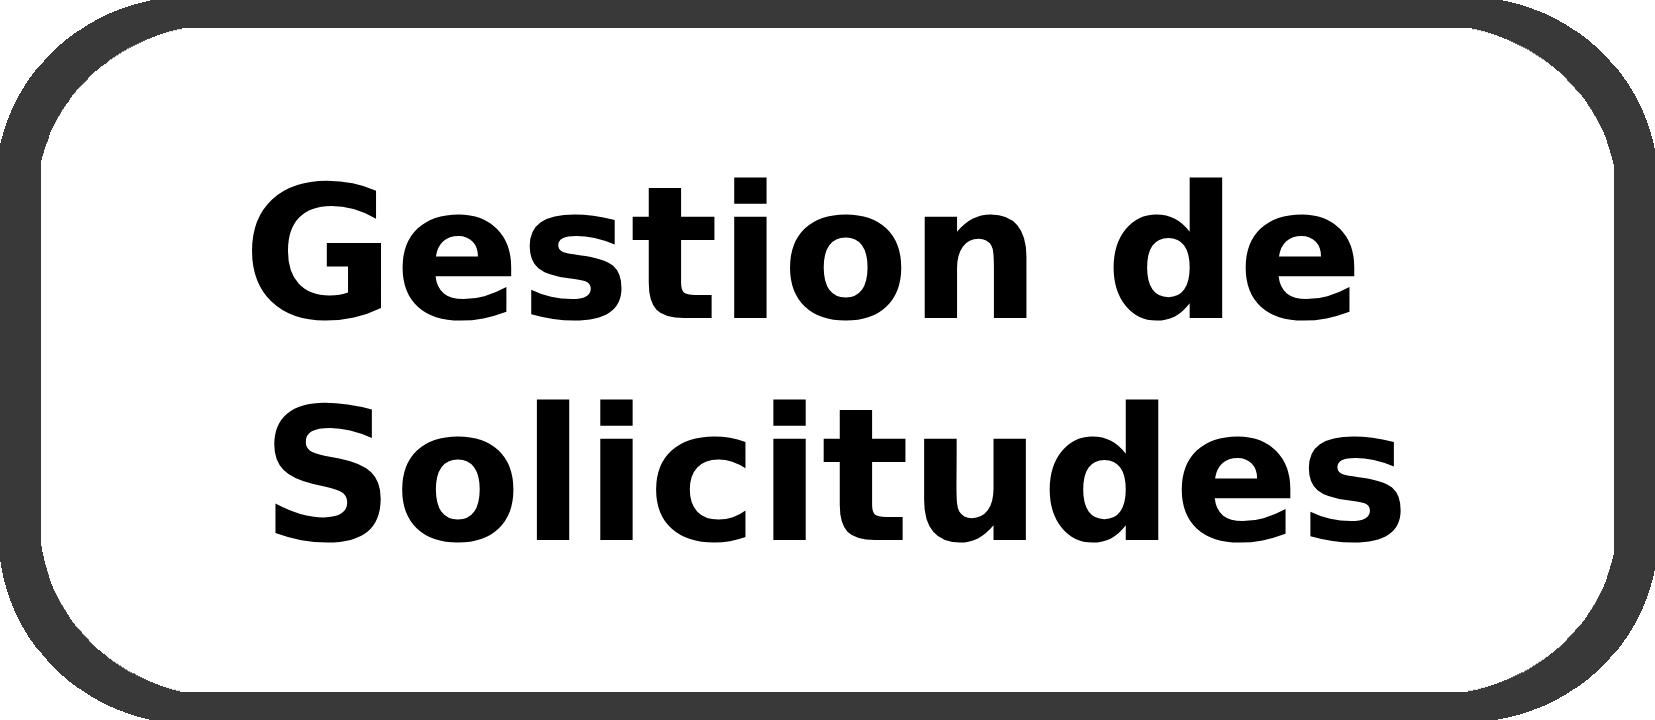
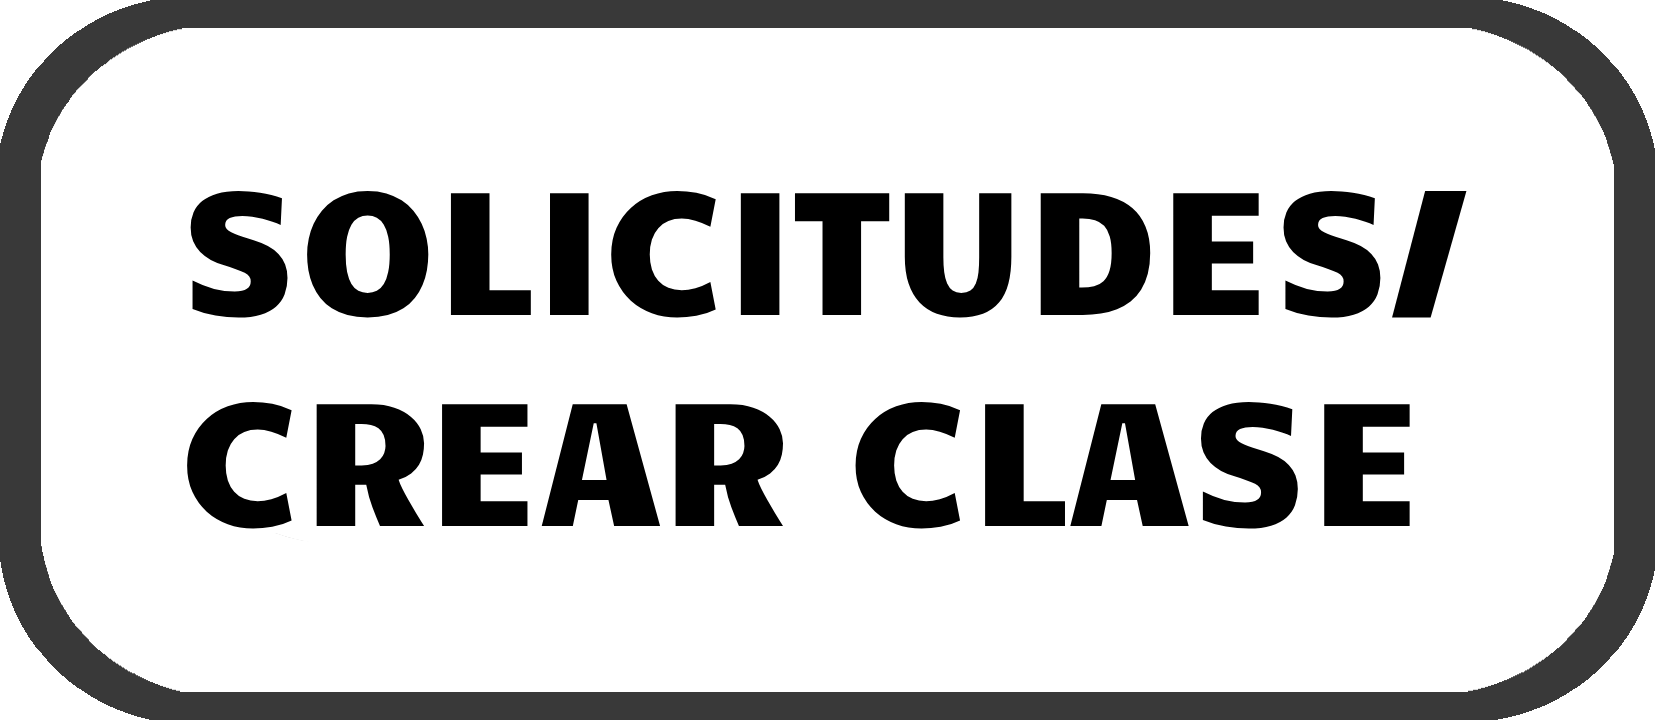
Se agrego la opcion de crear clases en la parte del admin

Changed region(s): [[0.0924, 0.55, 0.8628, 0.7639], [0.0924, 0.2444, 0.8937, 0.4583]]

diff --git a/src/main/java/interfaz/PanelSolicitudes.java b/src/main/java/interfaz/PanelSolicitudes.java
@@ -1,14 +1,14 @@
 package interfaz;
 
-import Logica.Clase;
+import Logica.*;
+import Logica.Enums.Asignatura;
 import Logica.Enums.EstadoSolicitud;
 import Logica.Estrategias.*;
-import Logica.GestorSolicitudes;
-import Logica.Solicitud;
-import Logica.ObservadorSolicitudes;
 
 import javax.swing.*;
 import java.awt.*;
+import java.awt.event.ActionEvent;
+import java.awt.event.ActionListener;
 import java.util.ArrayList;
 import java.util.Set;
 
@@ -20,6 +20,13 @@ public class PanelSolicitudes extends JPanel implements ObservadorSolicitudes {
     private JComboBox<String> comboSolicitudes;
     private JButton btnAceptar;
     private JButton btnRechazar;
+    private Profesor profesor;
+    private JComboBox<Profesor> combo1;
+    private JComboBox<Asignatura> combo2;
+    private JComboBox<BloqueHorario> combo3;
+    private JComboBox<Long> combo4;
+    private JComboBox<Integer> combo5;
+    private int id = 1000;
 
     public PanelSolicitudes(){
         setLayout(new BoxLayout(this, BoxLayout.Y_AXIS));
@@ -28,7 +35,14 @@ public class PanelSolicitudes extends JPanel implements ObservadorSolicitudes {
         InterfazUtils.agregarTitulo("Solicitudes", this);
         add(Box.createRigidArea(new Dimension(0, 30)));
 
+
+
         configurarPanelAdmin();
+        add(Box.createRigidArea(new Dimension(0, 15)));
+        InterfazUtils.agregarTitulo("Crear Clase", this);
+        add(Box.createRigidArea(new Dimension(0, 20)));
+
+        crearClase();
 
         GestorSolicitudes.getInstancia().suscribir(this);
 
@@ -50,17 +64,14 @@ public class PanelSolicitudes extends JPanel implements ObservadorSolicitudes {
 
         btnAceptar = new JButton("Aceptar");
         btnRechazar = new JButton("Rechazar");
-        JButton btnSalir = new JButton("Salir");
 
         panelControles.add(btnAceptar);
         panelControles.add(btnRechazar);
-        panelControles.add(btnSalir);
 
         add(panelControles);
 
         btnAceptar.addActionListener(_ -> manejarDecision(true));
         btnRechazar.addActionListener(_ -> manejarDecision(false));
-        btnSalir.addActionListener(_ -> Ventana.principal());
     }
 
     /**
@@ -132,6 +143,112 @@ public class PanelSolicitudes extends JPanel implements ObservadorSolicitudes {
         } else {
             btnAceptar.setEnabled(true);
             btnRechazar.setEnabled(true);
+        }
+    }
+
+    private void crearClase(){
+
+        Font fuente = new Font("Arial", Font.BOLD, 20);
+
+        JPanel panel = new JPanel();
+        panel.setLayout(new GridLayout(6,2, 5, 5));
+        panel.setOpaque(false);
+
+        combo1 = new JComboBox<Profesor>();
+        for(Profesor profe: ProfesorFactory.cargarProfesores()){
+            combo1.addItem(profe);
+        }
+
+        profesor = (Profesor) combo1.getSelectedItem();
+
+        combo2 = new JComboBox<>();
+        combo3 = new JComboBox<>();
+        combo4 = new JComboBox<>();
+        combo5 = new JComboBox<>();
+
+        actualizar();
+
+        combo1.addActionListener(new ActionListener() {
+            @Override
+            public void actionPerformed(ActionEvent e) {
+                profesor = (Profesor) combo1.getSelectedItem();
+                actualizar();
+            }
+        });
+
+        panel.add(InterfazUtils.label("Profesor: ", fuente));
+        panel.add(combo1);
+
+        panel.add(InterfazUtils.label("Asignatura: ", fuente));
+        panel.add(combo2);
+
+        panel.add(InterfazUtils.label("Disponibilidad: ", fuente));
+        panel.add(combo3);
+
+        panel.add(InterfazUtils.label("Tarifa: ", fuente));
+        panel.add(combo4);
+
+        panel.add(InterfazUtils.label("Cantidad Maxima Estudiantes: ", fuente));
+        panel.add(combo5);
+
+        JPanel panelBoton = new JPanel();
+        panelBoton.setLayout(new FlowLayout(FlowLayout.CENTER));
+        panelBoton.setOpaque(false);
+        JButton crear = new JButton("Crear");
+        crear.setPreferredSize(new Dimension(150,30));
+        panelBoton.add(crear);
+        panel.add(panelBoton);
+
+
+        JPanel panelSalir = new JPanel();
+        panelSalir.setLayout(new FlowLayout(FlowLayout.CENTER));
+        panelSalir.setOpaque(false);
+        JButton salir = new JButton("Salir");
+        crear.setPreferredSize(new Dimension(150,30));
+        panelSalir.add(salir);
+        panel.add(panelSalir);
+
+        id++;
+        panel.setAlignmentX(Component.CENTER_ALIGNMENT);
+
+        add(panel);
+
+        crear.addActionListener(_ -> {
+            Clase clase = new Clase((Profesor) combo1.getSelectedItem(),String.valueOf(id++), (Asignatura) combo2.getSelectedItem(), (BloqueHorario) combo3.getSelectedItem(), (Integer) combo5.getSelectedItem(), (Long) combo4.getSelectedItem());
+            JOptionPane.showMessageDialog(this, "Clase creada exitosamente.", "Clase Creada", JOptionPane.INFORMATION_MESSAGE);
+        });
+
+        salir.addActionListener(_ -> {
+            Ventana.principal();
+        });
+    }
+
+    private void actualizar() {
+        if (profesor != null) {
+            combo2.removeAllItems();
+            for (Asignatura asignatura : profesor.getMateriasQueDicta()) {
+                combo2.addItem(asignatura);
+            }
+
+            combo3.removeAllItems();
+
+            for (BloqueHorario bloque : profesor.getDisponibilidad()) {
+                combo3.addItem(bloque);
+            }
+
+            combo4.removeAllItems();
+            for (Long precio : profesor.getTarifas()) {
+                combo4.addItem(precio);
+            }
+            combo5.removeAllItems();
+            for (Integer cantidad : profesor.getCapacidadesMaximasAlumnos()) {
+                combo5.addItem(cantidad);
+            }
+        } else {
+            combo2.removeAllItems();
+            combo3.removeAllItems();
+            combo4.removeAllItems();
+            combo5.removeAllItems();
         }
     }
 }

diff --git a/src/main/java/Logica/BloqueHorario.java b/src/main/java/Logica/BloqueHorario.java
@@ -10,8 +10,29 @@ import Logica.Enums.*;
  * @param horario:
  */
 public record BloqueHorario(Dia dia, Horario horario) {
+
+    public Dia getDia() {
+        return dia;
+    }
+
+    public Horario getHorario() {
+        return horario;
+    }
     @Override
-    public String toString(){
-        return dia.toString() + " - " + horario.toString();
+    public String toString() {
+        String horarioStr;
+        if (this.horario == null) {
+            horarioStr = "Horario no especificado";
+        } else {
+            horarioStr = this.horario.toString();
+        }
+        String diaStr;
+        if (this.dia == null) {
+            diaStr = "Día no especificado";
+        } else {
+            diaStr = this.dia.toString();
+        }
+
+        return "Día " + diaStr + ", Horario " + horarioStr;
     }
 }

diff --git a/src/main/java/Logica/Profesor.java b/src/main/java/Logica/Profesor.java
@@ -34,4 +34,10 @@ public class Profesor extends Persona {
     public Set<Long> getTarifas(){
         return tarifas;
     }
+
+    @Override
+    public String toString(){
+        String salida = getNombre() + " " + getApellido();
+        return salida;
+    }
 }
